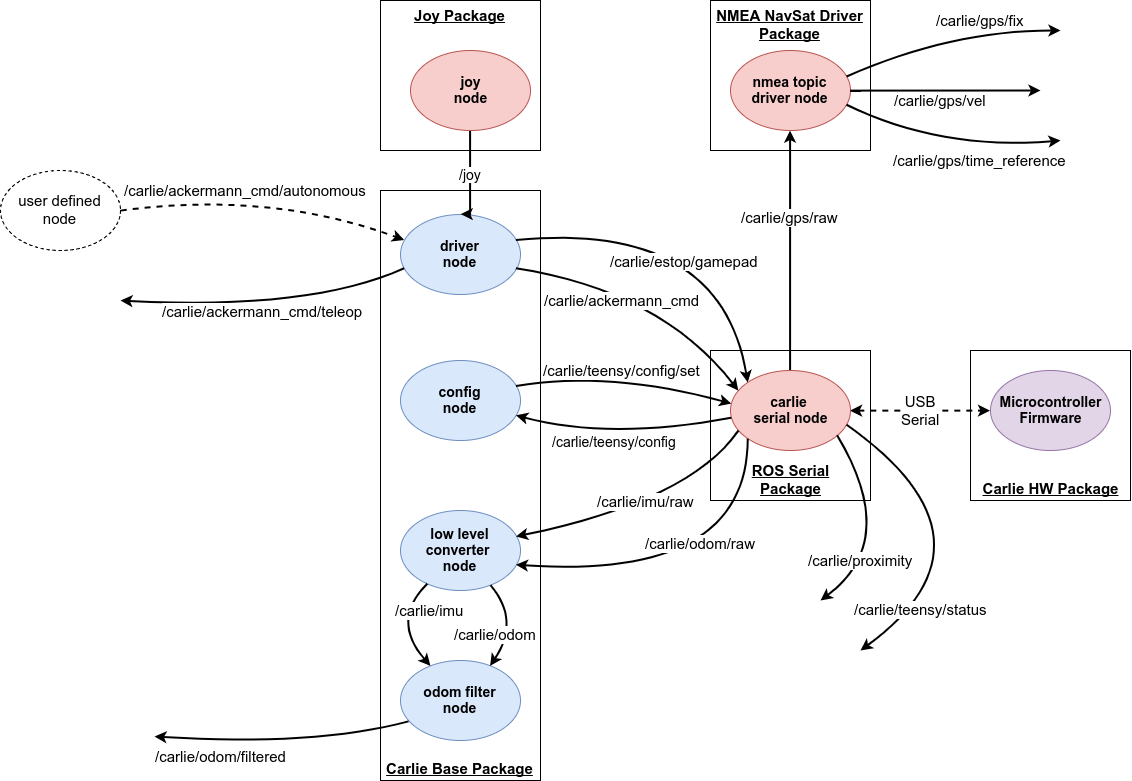
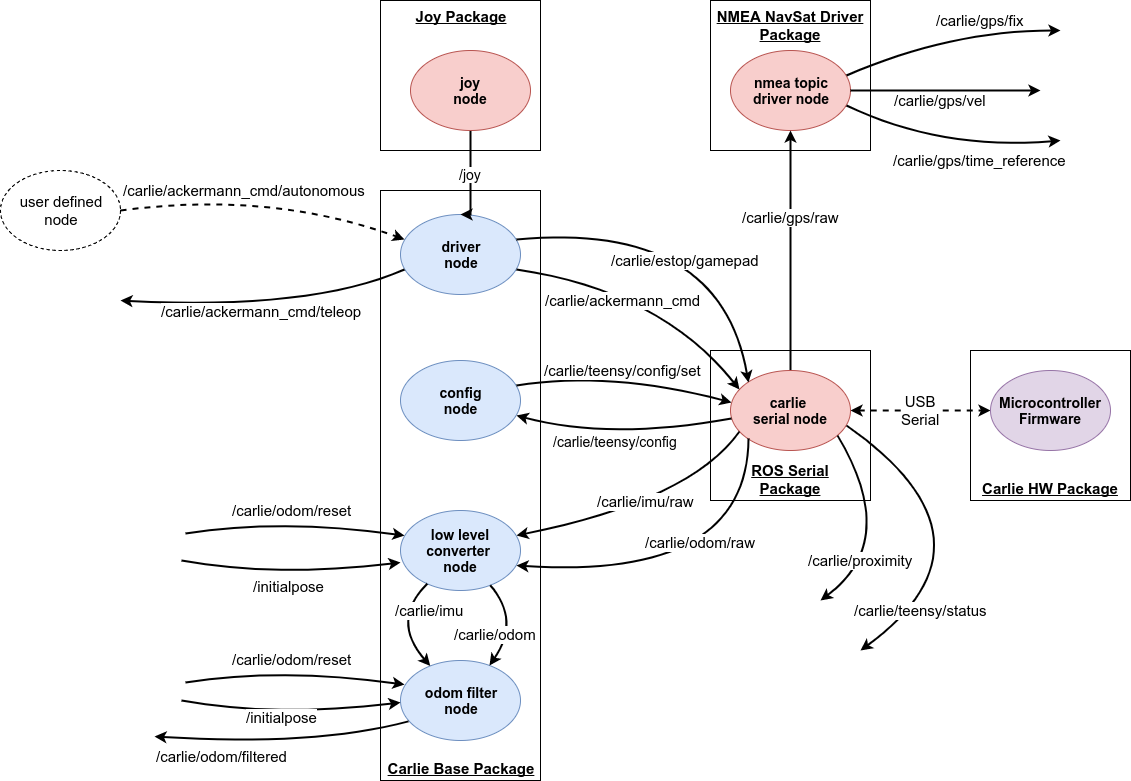
Updated documentation to reflect feature changes.

diff --git a/docs/going_further/developing_for_carlie.md b/docs/going_further/developing_for_carlie.md
@@ -3,7 +3,6 @@ sort: 5
 ---
 
 # Developing For Carlie
-
 This page is for those who wish to add features into the official Carlie software stack, or those wishing to fix any issues. We also provide details on how to add your Carlie Application to the official [Carlie Apps](https://github.com/RoboticVisionOrg/carlie_apps) package, and the procedure used for packaging and distributing the official Carlie debians.
 
 The current Carlie software stack consists of four primary ROS packages, these are:
@@ -15,18 +14,21 @@ The current Carlie software stack consists of four primary ROS packages, these a
 
 The methodology for providing feature updates or bug fixes is dependent on the core Carlie package you wish to alter. We provide updating methodologies for each core Carlie package below. Once you have altered a core Carlie package and tested them make a pull request.
 
-## Updating Carlie Messsages
+## Reporting Issues
+If you have problems with installing or running any of the Carlie softare please report an issue using Github's Issues within the appropriate package. For example, if the problem is in *carlie_base* please report at [Carlie Base Package Issues](https://github.com/RoboticVisionOrg/carlie_base/issues). If you are unsure which package is causing the issue please report the issue at [Carlie Package Issues](https://github.com/RoboticVisionOrg/carlie/issues).
+
+If you do find and issue and have a software patch, or if you have developed a feature(s) that you wish to include in the carlie packages, please check out the [Developer Section](../going_further/developing_for_carlie) on how to do this.
+
+## Updating Carlie Messages
 If you wish to add in a new Carlie custom message or alter an existing on please follow this procedure below. Please note if you alter the *CarlieConfig.msg*, *CarlieRawOdom.msg*, *CarlieRawMotionData.msg*, *CarlieRawProximityData.msg* or *CarlieStatus.msg* you will need to make changes to the Carlie Hardware and Carlie Base packages. 
 
-1. Git clone the carlie_messages package into the `src` folder of your ROS catkin workspace, `cd <catkin_ws>/src/ && git clone https://github.com/RoboticVisionOrg/carlie_msgs.git`
-2. Run catkin_make on your ROS catkin worskpace, `cd <catkin_ws> && catkin_make`
-3. Run `rospack profile` to ensure ROS will default to the newly cloned repository and not the carlie_msgs package within `/opt/ros/<distro>/`
-3. Navigate back to the git repo `cd <catkin_ws>/src/carlie_msgs` 
-4. Create and checkout a new branch with an appropriate name `git checkout -b <branch_name>`
-5. Make your changes and run catkin_make on your ROS catkin workspace to make sure your changes build correctly
-6. Update the carlie_hw and carlie_base packages, if required
-7. Test your changes
-8. Once tested successfully submit a pull request 
+1. Git clone the carlie_msgs package into the `src` folder of your ROS catkin workspace, `cd <catkin_ws>/src/ && git clone https://github.com/RoboticVisionOrg/carlie_msgs.git`
+2. Create and checkout a new branch with an appropriate name `git checkout -b <branch_name>`
+3. Make your changes and run catkin_make on your ROS catkin workspace to make sure your changes build correctly, `cd <catkin_ws> && catkin_make`
+4. Run `rospack profile` to ensure ROS will default to the newly cloned repository and not the carlie_msgs package within `/opt/ros/<distro>/`
+5. Update the carlie_hw and carlie_base packages, if required
+6. Test your changes
+7. Once successfully tested submit a pull request 
 
 
 ## Updating Carlie Hardware
@@ -39,7 +41,7 @@ You will need to have the [Arduino IDE](https://www.arduino.cc/en/software) inst
 To start you will need to clone the carlie_hw repository to a suitable location.
 
 1. Git clone the carlie_hw package into any location on your computer, `cd <desired_location> && git clone https://github.com/RoboticVisionOrg/carlie_hw.git`
-2. Navigate back to the newly cloned carlie_hw git repo `cd <path>/carlie_hw` 
+2. Navigate into the newly cloned carlie_hw git repo `cd <path>/carlie_hw` 
 3. Create and checkout a new branch with an appropriate name `git checkout -b <branch_name>`
 
 Navigate into the cloned carlie_hw package and run the `ArduinoLibrarySymlinkSetup.sh` script. This will create a symbolic link between the folders located in `<path>/carlie_hw/src/libraries` within `~/Arduino/libraries/` folder. This is required so the Arduino IDE can find the carlie, sc_servo and vesc_uart source files. 
@@ -56,9 +58,9 @@ Modify the carlie, sc_servo or vesc_uart library source files and recompile the 
 1. Opening up the appropriate source file in your favourite editor and making the required changes
 2. Open up `<path>/carlie_hw/src/firmware/firmware.ino` or `<path>/carlie_hw/src/calibration/calibration.ino` file in the Arduino IDE
 3. Press the verify button, top left button that is a tick symbol, to compile the software. Fix any errors that occur during compilation
-4. Once compilation is completed successfully, upload the new software to the micro-controller and test the changes. This may require making changes to carlie_base ROS package.
+4. Once compilation has completed successfully, upload the new software to the micro-controller and test the changes. This may require making changes to the carlie_base ROS package.
 
-Once the compiled software has been successfully tested you will need to copy the compiled hex file into the release folder. To do this follow these steps:
+Once the compiled software has been successfully tested, you will need to copy the compiled hex file into the release folder. To do this follow these steps:
 
 1. Open up the `firmware.ino` or `calibration.ino` file in the Arduino IDE and compile the software.
 2. In the compile log output search for the line that includes `"../tools/teensy_post_comile" ... "-path=/tmp/arduino_build_<number>" ...`, example shown in the figure below. We will use the path portion in the next step.
@@ -74,12 +76,12 @@ Once the compiled software has been successfully tested you will need to copy th
 Altering the Carlie Base package is typically straight forward, however if you alter the *config_node*, *driver_node* or *power_monitor_node* you may need to update the micro-controller firmware.
 
 1. Git clone the carlie_base package into the `src` folder of your ROS catkin workspace, `cd <catkin_ws>/src/ && git clone https://github.com/RoboticVisionOrg/carlie_base.git`
-2. Run catkin_make on your ROS catkin worskpace, `cd <catkin_ws> && catkin_make`
-3. Run `rospack profile` to ensure ROS will default to the newly cloned repository and not the carlie_base package within `/opt/ros/<distro>/`
-3. Navigate back to the git repo `cd <catkin_ws>/src/carlie_base` 
-4. Create and checkout a new branch with an appropriate name `git checkout -b <branch_name>`
-5. Make and test your changes
-6. Once tested successfully submit a pull request 
+2. Create and checkout a new branch with an appropriate name `git checkout -b <branch_name>`
+3. Run catkin_make on your ROS catkin worskpace, `cd <catkin_ws> && catkin_make`
+4. Run `rospack profile` to ensure ROS will default to the newly cloned repository and not the carlie_base package within `/opt/ros/<distro>/`
+5. Navigate back to the git repo `cd <catkin_ws>/src/carlie_base` 
+6. Make and test your changes
+7. Once tested successfully submit a pull request 
 
 ## Updating Carlie Sensors
 When altering the Carlie Sensors package please follow the procedure below.
@@ -115,7 +117,8 @@ Once you have copied your application into the carlie_apps directory and success
 
 Once you have tested your application successfully, by both command line launching and web interface launching if applicable, write a README.md with documentation explaining what your application does, how to run it and any requirements, for example additional sensors required or additional libraries that need to be installed. Once this documentation has been written submit a pull request.
 
-
+<!-- 
 ## Packaging Official Carlie Debians
 
 Gavin to provide information
+-->

diff --git a/docs/going_further/3_levels_of_carlie.md b/docs/going_further/3_levels_of_carlie.md
@@ -64,16 +64,18 @@ The [**carlie_msgs**](https://github.com/RoboticVisionOrg/carlie_msgs) ROS packa
 The [**carlie_base**](https://github.com/RoboticVisionOrg/carlie_base) ROS package contains five nodes and two launch files, one of which is only to provide improved feedback to the user. The five nodes are:
 
 * The **config_node** - attempts to set the Carlie config values on the micro-controller to be those specified by the ROS parameter server.
-* The **low_level_converter_node** - converts topics coming from the micro-controller that are not in standard ROS message formats, such as the raw odometry data.
+* The **low_level_converter_node** - converts topics coming from the micro-controller that are not in standard ROS message formats, such as the raw odometry data. Subscribes to */carlie/reset/odom* and */initialpose* topics which can be used to reset and set a specific initial pose respectively.
 * The **driver_node** - is used to pass commands between the computer and the micro-controller. This node listens to the *joy* and */carlie/ackermann_cmd/autonomous* topics and publishes the */carlie/ackermann_cmd*, */carlie/ackermann_cmd/teleop* and */carlie/estop/gamepad* topics. The node also multiplexes the right- and left-bumpers of the Logitech F710 gamepad to enable hassle-free transition between the tele-operation and autonomous modes. If the right-bumper is held-down the */carlie/ackermann_cmd/teleop* topic is copied into the */carlie/ackermann_cmd* topic which is then passed onto the micro-controller. If the left-bumper is held-down the */carlie/ackermann_cmd/autonomous* topic is copied into the */carlie/ackermann_cmd* topic and then passed onto the micro-controller. If both right- and left-bumper or neither button is held down the */carlie/estop/gamepad* topic is set to true and the speed within the */carlie/ackermann_cmd* topic is set to zero.
-* The **odom_filter_node** - publishes a filtered odometry topic by passing the IMU and raw odometry data through an extended Kalman filter (EKF). This will also publish a odom to base_link transform using the filtered odometry by default. This can be changed through the config file see [Odometry EKF Filter Config](../getting_started/carlie_config_and_calibration.html#odometry-ekf-filter-config) for details.
+* The **odom_filter_node** - publishes a filtered odometry topic by passing the IMU and raw odometry data through an extended Kalman filter (EKF). This will also publish a odom to base_link transform using the filtered odometry by default. This can be changed through the config file see [Odometry EKF Filter Config](../getting_started/carlie_config_and_calibration.html#odometry-ekf-filter-config) for details. Subscribes to */carlie/reset/odom* and */initialpose* topics which can be used to reset and set a specific initial pose respectively.
 * The **power_monitor_node** - is used to create a system tray icon which displays the current voltage, and approximate battery level, for Carlie.
 
-The *carlie_base.launch* and *carlie_pwer_monitor.launch* ROS launch files are set to automatically start after the computer is turned on  (assuming you installed carlie_pkgs via apt). The automatic launch of *carlie_base.launch* should allow Carlie to be tele-operated on start-up. The launch files are automatically run **Gavin knowledge**. 
+The *carlie_base.launch* and *carlie_pwer_monitor.launch* ROS launch files are set to automatically start after the computer is turned on  (assuming you installed carlie_pkgs via apt). The automatic launch of *carlie_base.launch* should allow Carlie to be tele-operated on start-up. The launch files are automatically run via *systemd*. 
 
 The *carlie_base.launch* also publishes the following static transforms:
 - imu to base_link - for the onboard Razor IMU
 - gps_link to base_link - for the onboard GPS
+
+To reset the odometry open up a terminal and execute `rostopic pub --once /carlie/odom/reset std_msgs/Empty`
 
 The figure below shows the nodes, topics and connections when the base layer ROS package, excluding the power monitor, and the micro-controller firmware are running.
 

diff --git a/docs/getting_started/starting_up_carlie.md b/docs/getting_started/starting_up_carlie.md
@@ -1,5 +1,5 @@
 ---
-sort: 3
+sort: 4
 ---
 
 # Starting Up and Driving Carlie
@@ -10,6 +10,7 @@ To turn on Carlie press the *on button* located on the shell. Pressing the on bu
 As part of the start-up sequence the computer will automatically launch the following systems:
 
 * Carlie Base System - this is required to allow the computer to communicate with the low-level hardware (motion control, IMU, GPS, short-range LIDAR sensors) as well as provides the tele-operation via the gamepad and the hassle-free switch between tele-operation and autonomous modes.
+* Carlie Power Monitor - this creates a system tray icon to show the current status of the batteries.
 
 ## Turning Off Carlie
 To turn off Carlie we recommend you first shut down the computer in the usual fashion. Once the computer has shut down you can press the off button located on the shell. Pressing the off button disconnects power from all the systems. We then recommend you unplug the battery and place it in a LiPo safety bag.
@@ -23,7 +24,7 @@ Carlie can be controlled in three different ways out-of-the-box. These three way
 * Tele-operated via the Traxxas RC Remote that came with the Traxxas Platform (which Carlie is built upon), or
 * Autonomously via computer generated control commands.
 
-**IMPORTANT!** Before driving Carlie using the Logitech F710 Gamepad or via the Traxxas RC Remote make sure to check that the neutral steering position for each remote has the wheels pointing approximately straight. This can be done by turning on the car and pressing only the deadman switch, if applicable, and leaving the other control inputs in their neutral position. Then using the steering control attempt to manipulate the wheels, ensuring that when the steering control input goes back to the neutral position the wheels return to pointing straight. If the wheels are point at an extreme angle (e.g. +/-10 degrees off straight) please go [calibrate the center steering angle](../going_further/carlie_config_and_calibration#calibrating-carlie-control-parameters) parameter now as not to cause damage to the steering servo. If the wheels are not quite pointing straight, that is okay for now, you can continue on and fix this later.
+**IMPORTANT!** Before driving Carlie for the first time using the Logitech F710 Gamepad or the Traxxas RC Remote make sure to check that the neutral steering position for each remote has the wheels pointing approximately straight. This can be done by turning the car on and pressing only the deadman switch, if applicable, and leaving the other control inputs in their neutral position. Then using the steering control attempt to manipulate the wheels, ensuring that when the steering control input goes back to the neutral position the wheels return to pointing straight. If the wheels are point at an extreme angle (e.g. +/-10 degrees off straight) please go calibrate the [center steering angle](../going_further/carlie_config_and_calibration#calibrating-carlie-control-parameters) parameter now as not to cause damage to the steering servo. If the wheels are not quite pointing straight, that is okay for now, you can continue on and fix this later.
 
 ### **Tele-Operation via Logitech F710 Gamepad**
 A minute or two after the computer has started up you should be able to drive Carlie using the Logitech Gamepad. The Logitech F710 gamepad will need to be in the *D Mode*; the switch can be found on the top edge of the controller. The controls are as follows:

diff --git a/docs/getting_started/carlie_running_existing_capabilities.md b/docs/getting_started/carlie_running_existing_capabilities.md
@@ -1,5 +1,5 @@
 ---
-sort: 4
+sort: 5
 ---
 
 # Running Existing Demos and Capabilities on Carlie
@@ -8,13 +8,12 @@ There exists several pre-existing demos and capabilities for Carlie, including:
 - [AR Tag Following Demo](#ar-tag-following-demo)
 - [HSV Blob Following Demo](#hsv-blob-following-demo)
 - [Vision-based Teach and Repeat](#vision-based-teach-and-repeat)
+- [LiDAR Mapping](#lidar-mapping)
 
 <!--
 - [LiDAR Mapping](https://github.com/RoboticVisionOrg/carlie_apps/tree/master/gmapping_app)
 - [LiDAR Localisation](https://github.com/RoboticVisionOrg/carlie_apps/tree/master/localisation_app) 
 -->
-
-Most of these can be found within the [carlie_apps](https://github.com/RoboticVisionOrg/carlie_apps) package.
 
 Most of these can be found within the [carlie_apps](https://github.com/RoboticVisionOrg/carlie_apps) package and are launchable via a web interface. To launch one of the existing capabilities via the web interface, if available, perform the following:
 
@@ -95,3 +94,20 @@ It is now time to run the repeat phase. Return Carlie to the starting position a
     roslaunch carlie_teach_and_repeat repeat.launch
 
 Now hold down the autonomous e-stop button (left bumper), but be ready to take your finger off at any moment. Also, stay close to Carlie that Gamepad only has a range of about 5-10m. Hopefully Carlie will autonomously navigate the route. The current example does have problem with tight corners, corners in general can be troublesome for teach and repeat.
+
+
+## LIDAR Mapping
+The LIDAR Mapping is a utility that can be used to create a occupancy grid map of your environment. This capability can be run via the command line or through the web interface. To run the utility via the command line first open up RVIZ, if you wish to be able to view the map,
+
+    rosrun rviz rviz
+
+Then launch the mapping utility, which uses the [ROS SLAM Toolbox](http://wiki.ros.org/slam_toolbox) under the hood,
+
+    roslaunch carlie_lidar_mapping_app lidar_mapping_app.launch
+
+Once you have finished building the map you can save it by executing
+
+    rosservice call /slam_toolbox/save_map "name: {data: 'maps/<map_name>'}"
+    rosservice call /slam_toolbox/serialize_map "maps/<map_name>"
+
+Maps will be saved to the path `~/.ros/maps/<map_name>`

diff --git a/docs/going_further/carlie_networking_interfaces.md b/docs/going_further/carlie_networking_interfaces.md
@@ -8,7 +8,11 @@ The Carlie Platform has two ways in which you can connect to it via networking. 
 
 The onboard WiFi router creates both a 2.4 and 5G local WiFi network. Naturally this WiFi network does not have internet access. The onboard computer, the Jetson TX2, connects to this network/router via a wired ethernet connection. We left the router in the default state for you to setup, which will depend on your work environment. The default WiFi SSID will be of the form *GL-AR750S-xxx* and the Password is *goodlife*.
 
-You may find that the platform does not have internet access when connected to your local WiFi. This is because the TX2 has a wired ethernet connection to the onboard router which will act as the default gateway and which does not have internet access. To overcome this you may wish to disable the ethernet as the default gateway.
+You may find that the platform does not have internet access when connected to your local WiFi. This is because the TX2 has a wired ethernet connection to the onboard router which will act as the default gateway and which does not have internet access. To overcome this you may wish to disable the ethernet as the default gateway. 
 
-1. Gavin insert instructions
-2. blah
+1. Open up Network Settings
+2. Open up the settings for the SSID for the onboard router
+3. Go to the IPv4 settings and click on Routes
+4. Make sure the checkbox for `Use this connection only for resources on its network` is checked
+
+Or you can physically disconnect the onboard router if it is not been used.

diff --git a/docs/going_further/carlie_config_and_calibration.md b/docs/going_further/carlie_config_and_calibration.md
@@ -69,7 +69,7 @@ The following parameters are used to set the IMU covariances. These values **can
 
 
 ## Calibrating Carlie Control Parameters
-To calibrate the control parameters perform the following. ***GAVIN*** *we need a serial monitor program - either can use SerialTUI or better would be to have Arduino IDE with Teensyduino add-on installed within the image*
+To calibrate the control parameters perform the following. You will require a serial monitor program. We recommend you install the [Arduino IDE](https://www.arduino.cc/en/software) along with the [Teensyduino](https://www.pjrc.com/teensy/teensyduino.html) add-on and use the Arduino serial monitor, if it is not already available.
 
 1. Turn on the car and make sure the E-Stop button, the one on the shell, is engaged (pressed down).
 2. Change the Teensy firmware over into calibration mode by opening up a terminal and running the following command `sudo CarlieInstallTeensyFirmware /var/lib/carlie/calibration.hex`

diff --git a/docs/getting_started/installing_carlie_software.md b/docs/getting_started/installing_carlie_software.md
@@ -1,0 +1,25 @@
+---
+sort: 2
+---
+
+# Installing Carlie Software
+**Note**: *If you built Carlie using the provided OS Image you can skip this step*.
+
+To install software please execute the following. First import the GPG Key using the following command
+
+    sudo -E apt-key adv --keyserver hkp://keyserver.ubuntu.com --recv-key 5B76C9B0
+
+Add the QCR repository to the apt sources list directory:
+
+    sudo sh -c 'echo "deb [arch=$(dpkg --print-architecture)] https://packages.qcr.ai $(lsb_release -sc) main" > /etc/apt/sources.list.d/acrv-latest.list'
+
+Update your packages list
+
+    sudo apt list
+
+Then finally install the Carlie software packages
+
+    sudo apt install ros-melodic-carlie
+
+**Note**: Only ROS Melodic is currently supported.
+

diff --git a/README.md b/README.md
@@ -1,9 +1,10 @@
 
 # Carlie Documentation
 
-The Carlie documentation is generated using Jekyll and served using Github Pages. 
+This contains the central documentation for the Carlie platform. To ensure information is consistent all official Carlie documentation should be included here. The Carlie documentation is generated using Jekyll and served using Github Pages. Please submit pull requests for any updates you make to the documentation.
 
-To create a local server to check changes to the documentation prior to pushing to github do the following commands
+## Testing Updates Locally
+To test your updates locally you can create a local server prior to publishing to Github and Github Pages.
 
     cd <carlie_docs>/docs
     bundle exec jekyll serve

diff --git a/docs/getting_started/updating_carlie_software.md b/docs/getting_started/updating_carlie_software.md
@@ -1,5 +1,5 @@
 ---
-sort: 2
+sort: 3
 ---
 
 # Updating Carlie Software
@@ -10,7 +10,6 @@ Before going any futher we should ensure your Carlie platform has the most up-to
 
     sudo apt update
     sudo apt upgrade
-    sudo apt install ros-melodic-carlie
 
 ## Updating Carlie Ubuntu Image
 

diff --git a/docs/getting_started/creating_your_own_carlie_apps.md b/docs/getting_started/creating_your_own_carlie_apps.md
@@ -1,5 +1,5 @@
 ---
-sort: 5
+sort: 6
 ---
 
 # Creating Your Own Carlie Applications
